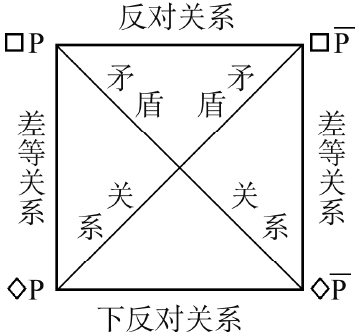
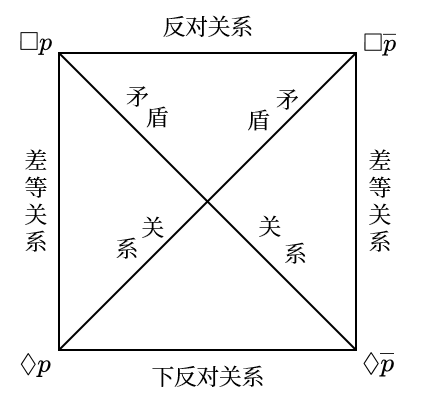
redraw graph

Changed region(s): [[0.0, 0.0599, 0.9778, 0.9581], [0.275, 0.8982, 0.6722, 1.0], [0.3361, 0.0, 0.6417, 0.0898]]

diff --git a/docs/cogn/formal/deduction.md b/docs/cogn/formal/deduction.md
@@ -44,7 +44,7 @@
         ![](../assets/relation.png)
         <style>
         img[src$="relation.png"] {
-            width: 200px;
+            width: 240px;
         }
         </style>
     </figure>
@@ -198,8 +198,8 @@
     2. 表示对事物情况断定的不确定的性质
     3. 模态的种类：时间模态（在某些时候为真)、逻辑模态（命题必然为真)、认知模态（人们都认为为真）和意向模态（让人们相信其为真）
 2. 分类：模态命题可分为可能命题和必然命题，两个命题都既有肯定的，也有否定的
-    1. 可能肯定命题：$S$ 是 $P$ 是可能的，记作「可能 $p$」，写作 $\diamond p$
-    2. 可能否定命题：$S$ 不是 $P$ 是可能的，记作「可能 $\overline{p}$」，写作 $\diamond \overline{p}$
+    1. 可能肯定命题：$S$ 是 $P$ 是可能的，记作「可能 $p$」，写作 $\lozenge p$
+    2. 可能否定命题：$S$ 不是 $P$ 是可能的，记作「可能 $\overline{p}$」，写作 $\lozenge \overline{p}$
     3. 必然肯定命题：$S$ 是 $P$ 是必然的，记作「必然 $p$」，写作 $\square p$
     4. 必然否定命题：$S$ 不是 $P$ 是必然的，记作「必然 $\overline{p}$」，写作 $\square \overline{p}$
 
@@ -207,16 +207,16 @@
         ![](../assets/modal.png)
         <style>
         img[src$="modal.png"] {
-            width: 200px;
+            width: 240px;
         }
         </style>
     </figure>
 
 3. 模态推理：根据模态命题的性质及其相互间的逻辑关系进行推演
-    1. 根据矛盾关系的直接推理：$\square p\leftrightarrow \overline{\diamond \overline{p}}, \overline{\square p}\leftrightarrow \diamond \overline{p}, \square \overline{p}\leftrightarrow \overline{\diamond p}, \overline{\square \overline{p}}\leftrightarrow \diamond p$
+    1. 根据矛盾关系的直接推理：$\square p\leftrightarrow \overline{\lozenge \overline{p}}, \overline{\square p}\leftrightarrow \lozenge \overline{p}, \square \overline{p}\leftrightarrow \overline{\lozenge p}, \overline{\square \overline{p}}\leftrightarrow \lozenge p$
     2. 根据反对关系的直接推理：$\square p\to \overline{\square \overline{p}}, \square \overline{p} \to \overline{\square p}$
-    3. 根据下反对关系的直接推理：$\overline{\diamond p} \to \diamond \overline{p}, \overline{\diamond \overline{p}} \to \diamond p$
-    4. 根据差等关系的直接推理：$\square p\to \diamond p, \overline{\diamond p} \to \overline{\square p}, \square \overline{p} \to \diamond \overline{p}, \overline{\diamond \overline{p}} \to \overline{\square \overline{p}}$
+    3. 根据下反对关系的直接推理：$\overline{\lozenge p} \to \lozenge \overline{p}, \overline{\lozenge \overline{p}} \to \lozenge p$
+    4. 根据差等关系的直接推理：$\square p\to \lozenge p, \overline{\lozenge p} \to \overline{\square p}, \square \overline{p} \to \lozenge \overline{p}, \overline{\lozenge \overline{p}} \to \overline{\square \overline{p}}$
 4. 模态三段论
     1. 必然模态三段论：所有的 $M$ 必然是 $P$ ，所有的 $S$ 必然是 $M$ ，所以所有的 $S$ 必然是 $P$
     2. 必然和可能两种模态命题结合：凡 $P$ 必然是 $M$ ，凡 $S$ 可能不是 $M$ ，所以凡 $S$ 可能不是 $P$
@@ -242,7 +242,7 @@
             ![](../assets/normative.png)
             <style>
             img[src$="normative.png"] {
-                width: 200px;
+                width: 240px;
             }
             </style>
         </figure>

diff --git a/docs/meta/lang/pragma.md b/docs/meta/lang/pragma.md
@@ -1,5 +1,37 @@
 # 4 形式语用学
 
 ## 4.1 言语行为理论
+### 4.1.1 奥斯汀言语行为理论
+1. 以言行事：有一类特殊的话语，这类话语不是用来说事的，而是用来做事的
+    1. 早期二分法：行为式与表达式
+    2. 经典三分法：语谓行为，语用行为与语效行为；语用行为包括判定式、执行式、承诺式、表态式与阐述式
+2. 行为式
+    1. 行为式满足的条件
+        1. 它们完全不描述，不报道也不陈述任何事情，并且也不是「或真或假」的
+        2. 说出这些语句是或者部分是一种行为，而当人们说某件事时，通常不会描述这种行为
+    2. 行为式的分类
+        1. 显式行为式：使用单数第一人称现在时直陈语气主动语态的动词或以第二、第三人称现在时直陈语气被动语态的动词做行为动词的话语
+        2. 初式行为式：偏离形式化的显示行为式的行为式
+    3. 得体：一个行为式话语是得体的当且仅当这个话语是在合适的情形下说出的，一个得体的行为式话语被说出的条件是切当的，否则是不切当的
+        1. 外在条件
+            - （$\text{A.1}$）必须存在一个公认的，确有约定效果的约定程序，该程序包括由一定的人在一定的情形中说出的一定话语
+            - （$\text{A.2}$）在某一确定场合中，那些特定的人和情境被被援引的特出程序的执行必须是合适的
+            - （$\text{B.1}$）所有参与者必须正确地实施该程序
+            - （$\text{B.2}$）所有参与者必须完全地实施该程序
+        2. 内在条件
+            - （$\mathrm{\Gamma.1}$）使用这种程序的，通常是那些具有一定思想或感情的参与者，或者是那些为参与者主持仪式的人。因此，无论是那些参与者还是与程序的实施有关的人，事实上都必须具备那种思想或情感，并且参与者自己必须有意这样去做
+            - （$\mathrm{\Gamma.2}$）参与者自己后来确实这样去做
+        3. 违反规则造成的不切当情况
+            
+            <figure markdown>
+                ![](./../../assets/ast.png)
+                <style>
+                img[src$="ast.png"] {
+                    width: 600px;
+                }
+                </style>
+            </figure>
+
+### 4.1.2 塞尔言语行为理论
 
 ## 4.2 语用逻辑

diff --git a/docs/index.md b/docs/index.md
@@ -63,7 +63,7 @@ const entryList = [
     // "John Stillwell.Reverse Mathematics: Proofs from the Inside out[M]. Princeton University Press:Oxford, 2018:1-167",
     // PART IV
     "熊金城.点集拓扑讲义[M]. 高等教育出版社:北京, 2020:1-162.",
-    // "李文威.代数学方法：基本架构[M]. 高等教育出版社:北京, 2019:27-422.",
+    // "李文威.代数学方法：基本架构[M]. 高等教育出版社:北京, 2019:11-423.",
     // "Rob Nederpelt,Herman Geuvers.Type Theory and Formal Proof: an Introduction[M]. Cambridge UniversitPress:Cambridge, 2014:1-390.",
 ];
 
